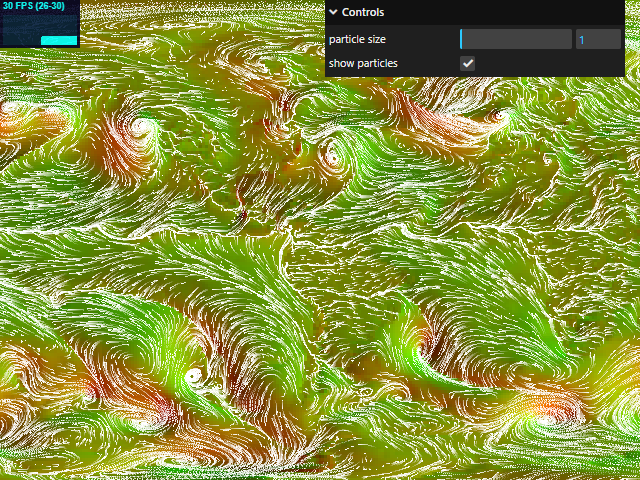
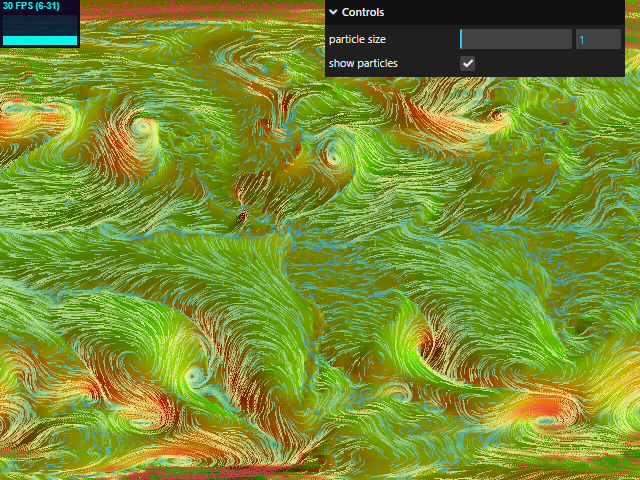
add comments

diff --git a/README.md b/README.md
@@ -717,13 +717,15 @@ GPGPUを使えばCPUに負荷がかからないことを確かめるために、
 
 <br>
 
-## GPGPU move along wind flow（失敗かな？）
+## GPGPU move along wind flow（失敗だけど、まぁいっか）
 
 パーティクルをオフスクリーンにレンダリングしてテクスチャを作成して、１フレーム前のテクスチャと合成するようにしたのがこれ。
 
 せっかくパーティクルに色を付けてるのに、テクスチャの色を単純に加算するとパーティクルの色が白く飛んでしまうので、RGBのいずれかが1.0を超えるようなら2.0で除算するようにしてみた。
 
-当然、これじゃダメなんだけど、いまの実力ではどうしていいか分からない・・・
+当然、これじゃダメなんだけど、いまの実力ではどうしていいか分からない。
+
+`preserveDrawingBuffer` と同じことをフラグメントシェーダーでやりたいだけなんだけど・・・
 
 でも、オフスクリーンレンダリングのやり方はとても勉強になったので、記録として残しておく。
 
